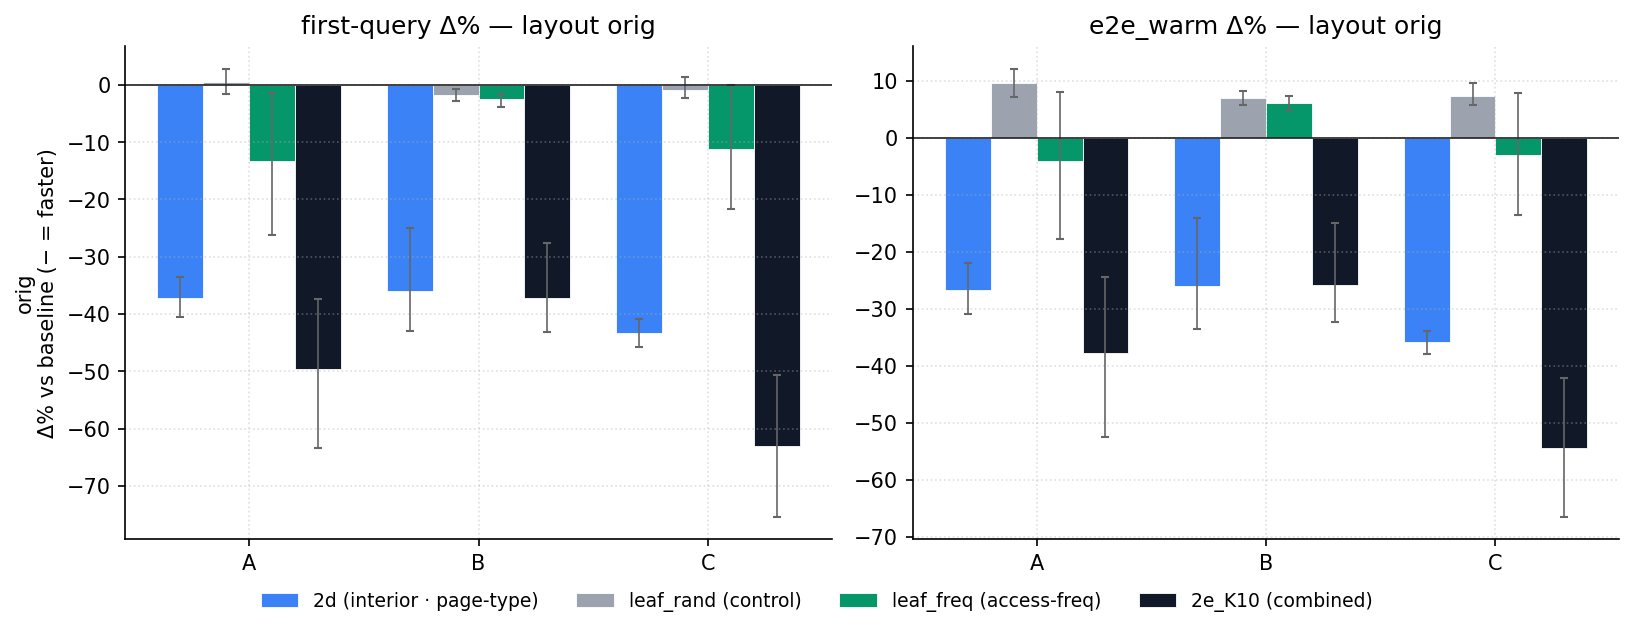
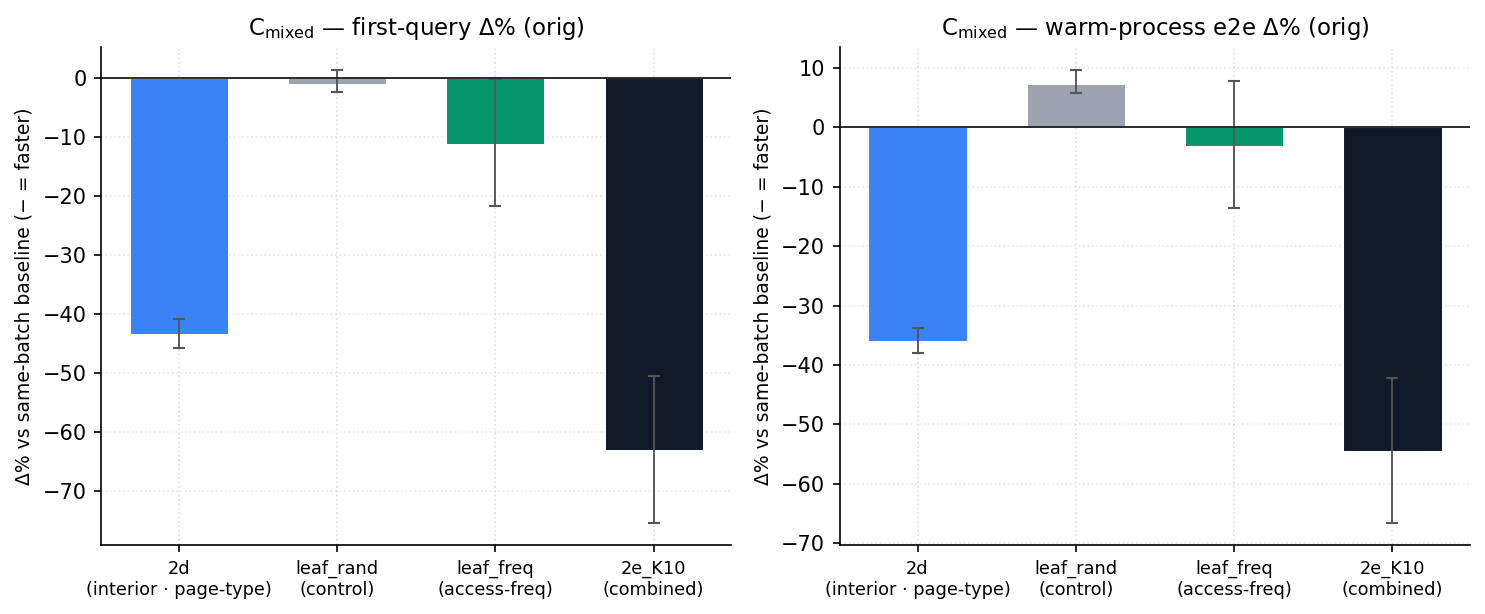
paper: scope corrected ablation figure to C_mixed
Phase 3b. Figure 17 is now a C_mixed-only corrected same-batch ablation
(two panels: first-query and warm-process e2e Delta%) sourced solely from
results/ablation_comp_v2. Removed the A/B ablation panels and the
unsupported "on workload B, leaf_freq and leaf_rand are both near zero"
claim; the A/B levers are now characterized only by the cross-seed sweep
(tab:seeds): B interior skeleton 2d ~-25%, A genuine Zipfian bonus
2d ~-25% -> 2e_K10 ~-36%. Caption states C_mixed-only, source, both
metrics, and the 10-seed bootstrap 95% CI.

Changed region(s): [[0.0, 0.0928, 0.9912, 0.9902], [0.6195, 0.0309, 0.9293, 0.0619], [0.1549, 0.0309, 0.4027, 0.0619]]

diff --git a/main.tex b/main.tex
@@ -590,12 +590,12 @@ The corrected ablation and competitive-baseline experiments run as a single same
 \label{tab:ablation}
 \end{table}
 
-Figure~\ref{fig:ablation} visualizes the corrected ablation across workloads. On workload C, the interior lever (\texttt{2d}) carries the robust gain and the leaf-frequency lever collapses to a tie once first-op leakage is removed. On workload B, which has no natural hot set, \texttt{leaf\_freq\_K10} and \texttt{leaf\_rand\_K10} are both near zero; the entire improvement comes from the page-type lever (\texttt{2d}, approximately $-36\%$ first-query, cross-seed mean). Workload A is the one case where the frequency lever contributes genuine signal: the page-type lever provides the base ($-37\%$ first-query from \texttt{2d}), and frequency-selected leaves add a modest, robust bonus beyond it (end-to-end $-25\%$ from \texttt{2d} to $-36\%$ from \texttt{2e\_K10}), consistent with A's Zipfian access pattern where some leaves are genuinely hot.
+Figure~\ref{fig:ablation} visualizes the corrected same-batch ablation on \emph{C\_mixed}. The interior lever (\texttt{2d}) carries the robust gain ($-43\%$ first-query, $-36\%$ warm e2e); the leaf-frequency lever collapses to a tie ($-3\%$ warm e2e, CI crossing zero) once first-op leakage is removed; and the random-leaf control is net-slower ($+7\%$ warm e2e). The other workloads are characterized by the 10-seed cross-seed sweep (Section~\ref{sec:eval-robustness}), not a separate ablation: on the uniform workload B the entire warm-process gain is the interior skeleton (\texttt{2d} $\approx -25\%$ cross-seed), and on the skewed workload A the frequency lever adds a genuine, robust bonus beyond the skeleton (warm e2e $\approx -25\%$ from \texttt{2d} to $\approx -36\%$ from \texttt{2e\_K10}), consistent with A's Zipfian access pattern where some leaves are genuinely hot.
 
 \begin{figure}[htbp]
 \centering
 \includegraphics[width=0.85\linewidth]{figures/17_lever_ablation.png}
-\caption{Ablation of selection levers on workload C. The \texttt{leaf\_rand\_K10} control isolates the effect of frequency ranking: same page count and type as \texttt{leaf\_freq\_K10}, differing only in selection criterion. Results are 10-seed means with 95\% bootstrap CIs for first-query.}
+\caption{Corrected same-batch ablation of selection levers on \emph{C\_mixed} (orig layout only; single source \texttt{results/ablation\_comp\_v2}). Both panels---first-query and warm-process e2e $\Delta\%$ versus the same-batch baseline---are 10-seed means with 95\% bootstrap CIs. The \texttt{leaf\_rand\_K10} control isolates frequency ranking (same page count and type as \texttt{leaf\_freq\_K10}, differing only in selection criterion). Interior page-type (\texttt{2d}) is the robust lever; leaf-frequency alone is a tie on warm e2e once first-op leakage is removed.}
 \label{fig:ablation}
 \end{figure}
 
